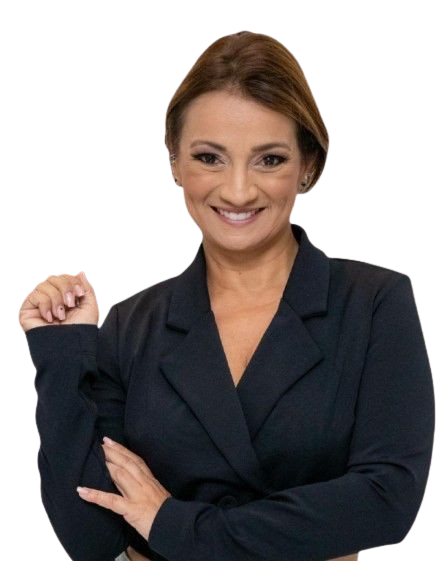
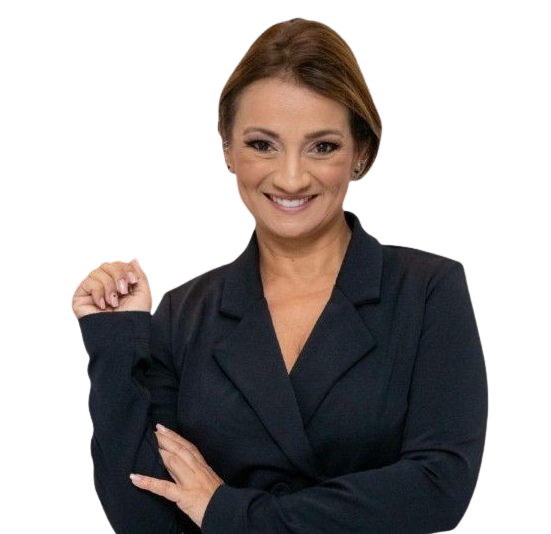
fix images positioning

diff --git a/index.html b/index.html
@@ -1,8 +1,9 @@
 <!DOCTYPE html>
-<html lang="en">
+<html lang="pt-BR">
 <head>
     <meta charset="UTF-8">
     <meta name="viewport" content="width=device-width, initial-scale=1.0">
+    <meta name="description" content="COOTENE - Cooperativa de consultores especializados em ajudar negócios a crescerem. Soluções personalizadas em gestão, contabilidade, RH e mais.">
     <title>COOTENE - Cooperativa de Trabalho de Especialistas em Negócio</title>
     <style>
         /* Basic Reset */
@@ -154,6 +155,17 @@
             flex: 1;
             min-height: 200px;
             background-color: #c1d8f0;
+            position: relative;
+        }
+
+        .member-image img {
+            position: absolute;
+            top: 0;
+            left: 0;
+            width: 100%;
+            height: 100%;
+            object-fit: cover;
+            display: block;
         }
 
         img {
@@ -290,6 +302,19 @@
         .text-red {
             color: #ff0000;
         }
+
+        /* Responsive styles */
+        @media (max-width: 768px) {
+            .team-member {
+                flex-direction: column;
+            }
+
+            .member-image {
+                min-height: 250px;
+                height: 250px;
+                flex: none;
+            }
+        }
     </style>
 </head>
 <body>
@@ -311,8 +336,8 @@
 
     <section class="hero" id="home">
         <div class="container">
-            <h1><img src="img/logo.png"/></h1>
-            <h1><img style="width: 5em;" src="img/somos-coop-1.png"/></h1>
+            <h1><img src="img/logo.png" alt="COOTENE Logo"/></h1>
+            <h1><img style="width: 5em;" src="img/somos-coop-1.png" alt="Somos Coop"/></h1>
             <p>Somos uma cooperativa de consultores especializados em ajudar negócios a crescerem e alcançarem seu
           potencial máximo. Com experiência, colaboração e inovação, oferecemos soluções personalizadas para empresas de
           todos os tamanhos.</p> </div>
@@ -355,7 +380,7 @@
             <div class="team-members">
                 <div class="team-member">
                     <div class="member-image">
-                        <img src="img/artur.png" />
+                        <img src="img/artur.png" alt="Artur Lima da Silva" />
                     </div>
                     <div class="member-description">
                         <h2>Cooperado Artur Lima da Silva</h2>
@@ -375,7 +400,7 @@
 
                 <div class="team-member">
                     <div class="member-image">
-                        <img src="img/cristiane.png" />
+                        <img src="img/cristiane.png" alt="Cristiane Gomes de Souza" />
                     </div>
                     <div class="member-description">
                         <h2>Cooperada Cristiane Gomes de Souza</h2>
@@ -400,7 +425,7 @@
 
                 <div class="team-member">
                     <div class="member-image">
-                        <img src="img/debora.png" />
+                        <img src="img/debora.png" alt="Débora da Silva Lins" />
                     </div>
                     <div class="member-description">
                         <h2>Cooperada Débora da Silva Lins</h2>
@@ -423,7 +448,7 @@
 
                 <div class="team-member">
                     <div class="member-image">
-                        <img src="img/domingos.png" />
+                        <img src="img/domingos.png" alt="Domingos Sávio S. Leão" />
                     </div>
                     <div class="member-description">
                         <h2>Cooperado Domingos Sávio S. Leão</h2>
@@ -441,7 +466,7 @@
 
                 <div class="team-member">
                     <div class="member-image">
-                        <img src="img/ednildo.png" />
+                        <img src="img/ednildo.png" alt="Ednildo José da Silva" />
                     </div>
                     <div class="member-description">
                         <h2>Cooperado Ednildo José da Silva</h2>
@@ -459,7 +484,7 @@
 
                 <div class="team-member">
                     <div class="member-image">
-                        <img src="img/edson-sa.png" />
+                        <img src="img/edson-sa.png" alt="Edson Sá" />
                     </div>
                     <div class="member-description">
                         <h2>Cooperado Edson Sá</h2>
@@ -478,7 +503,7 @@
 
                 <div class="team-member">
                     <div class="member-image">
-                        <img src="img/lucas.png" />
+                        <img src="img/lucas.png" alt="Lucas Henrique B. Nobre" />
                     </div>
                     <div class="member-description">
                         <h2>Cooperado Lucas Henrique B. Nobre</h2>
@@ -498,7 +523,7 @@
 
                 <div class="team-member">
                     <div class="member-image">
-                        <img src="img/rafael.png" />
+                        <img src="img/rafael.png" alt="Rafael Aparecido Bezerra" />
                     </div>
                     <div class="member-description">
                         <h2>Cooperado Rafael Aparecido Bezerra</h2>
@@ -549,10 +574,10 @@
         <div class="container">
             <div class="footer-content">
                 <div class="footer-info">
-                    <p><img src="img/somos-coop-2.png"/></p>
+                    <p><img src="img/somos-coop-2.png" alt="Somos Coop"/></p>
                 </div>
                 <div class="social-links">
-                  <a href="#home"><img style="height: 90px" src="img/logo.png"/></a>
+                  <a href="#home"><img style="height: 90px" src="img/logo.png" alt="COOTENE Logo"/></a>
                 </div>
             </div>
         </div>
